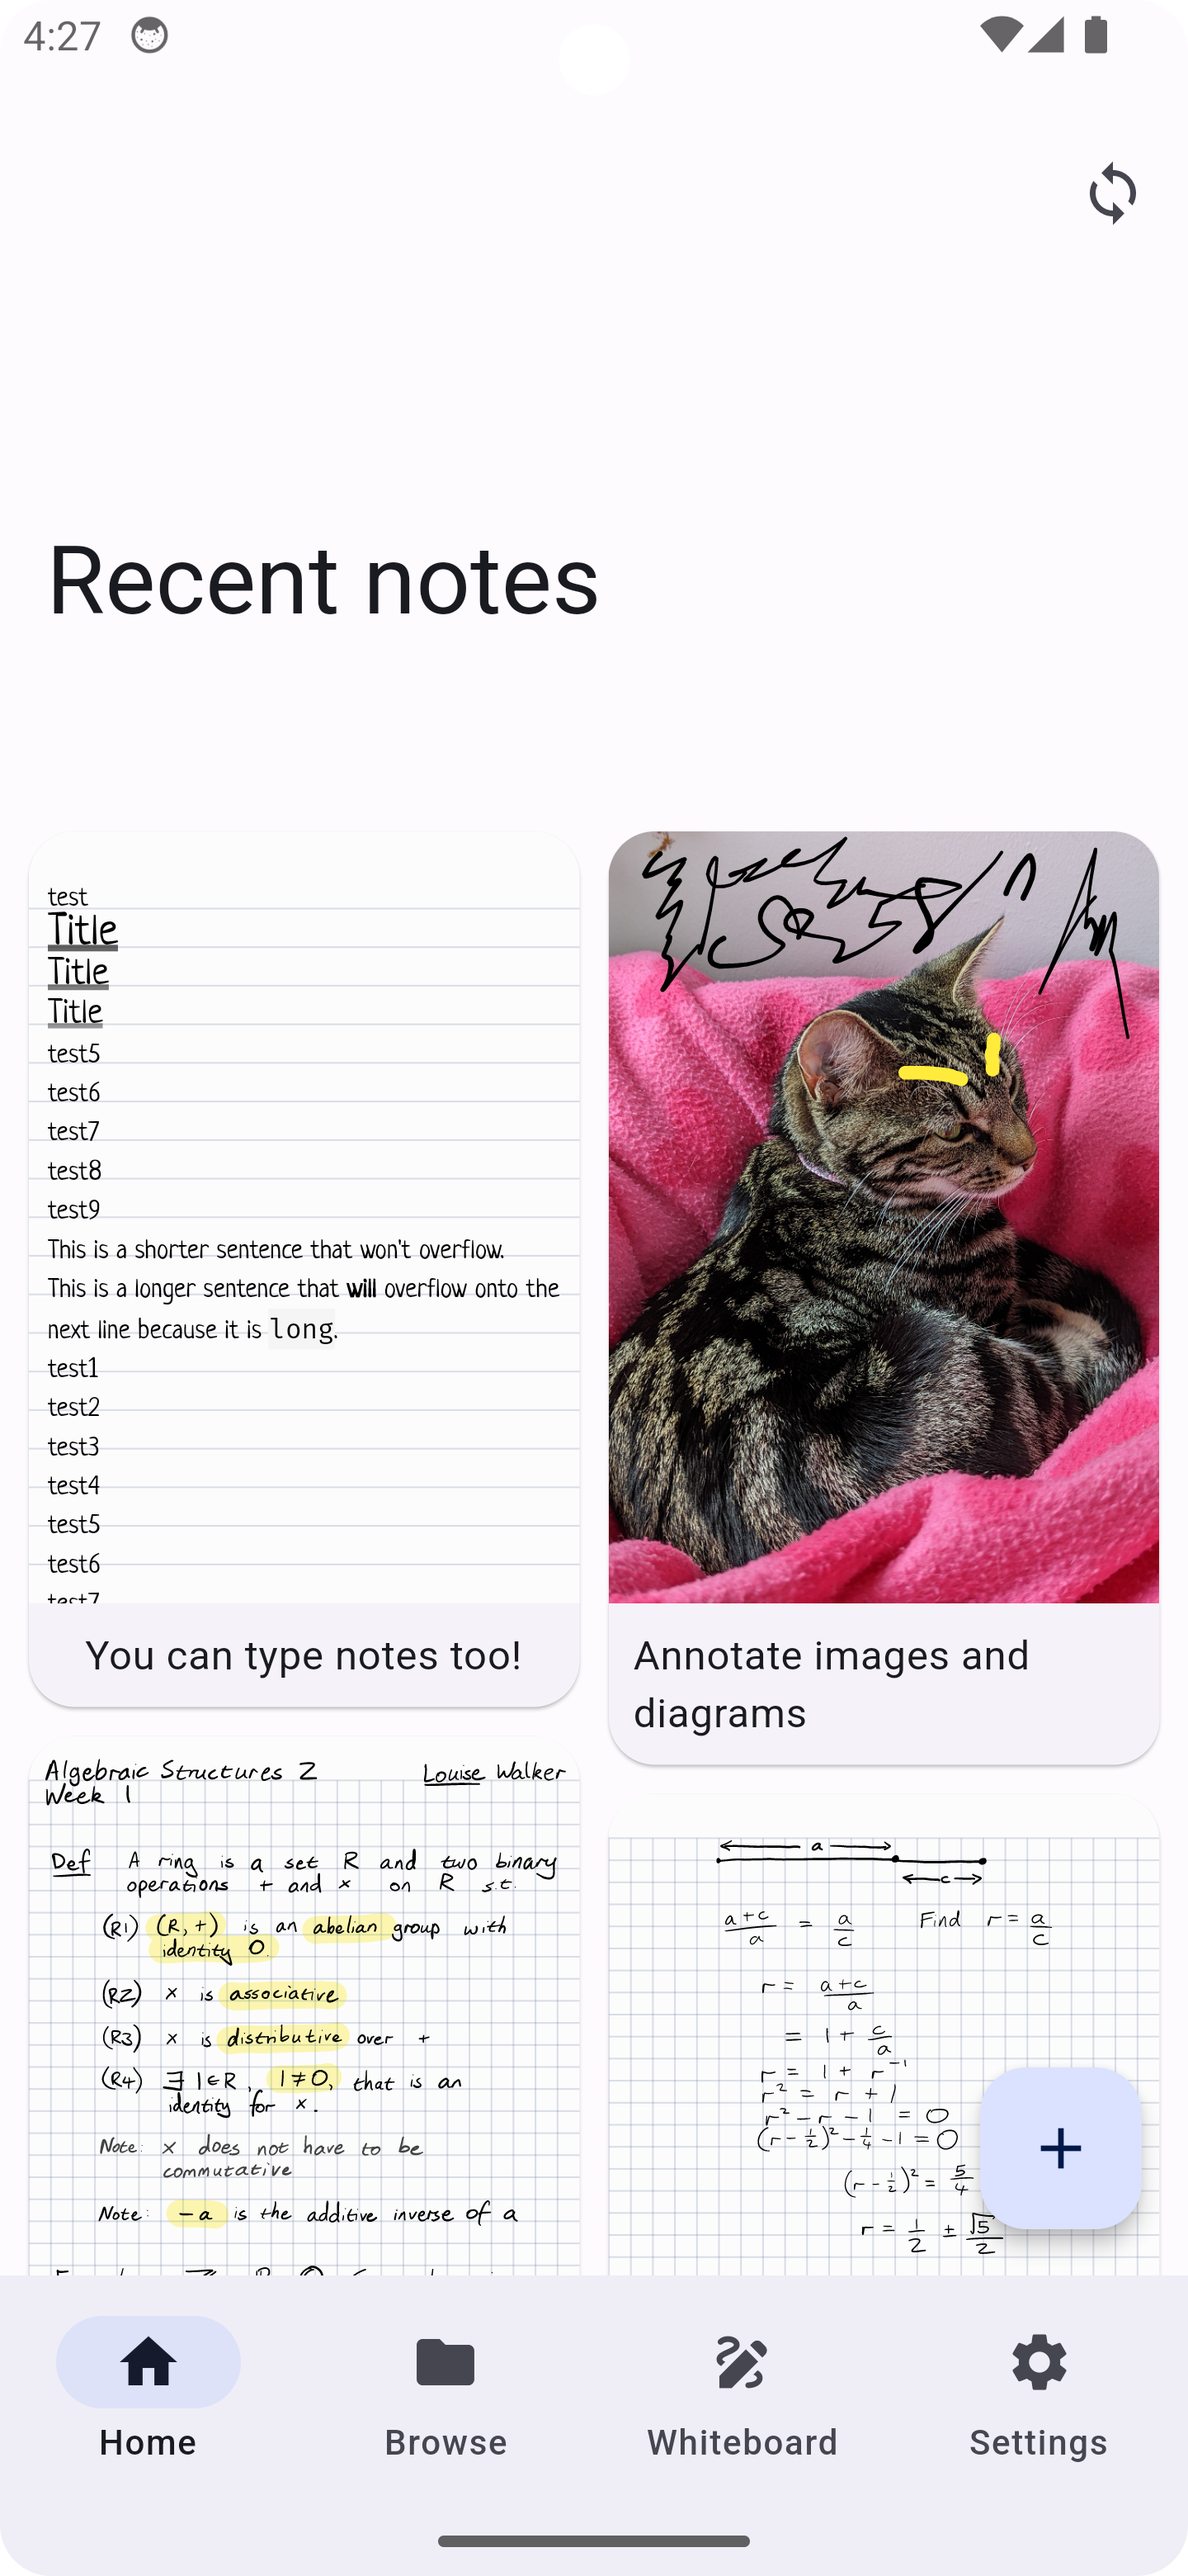
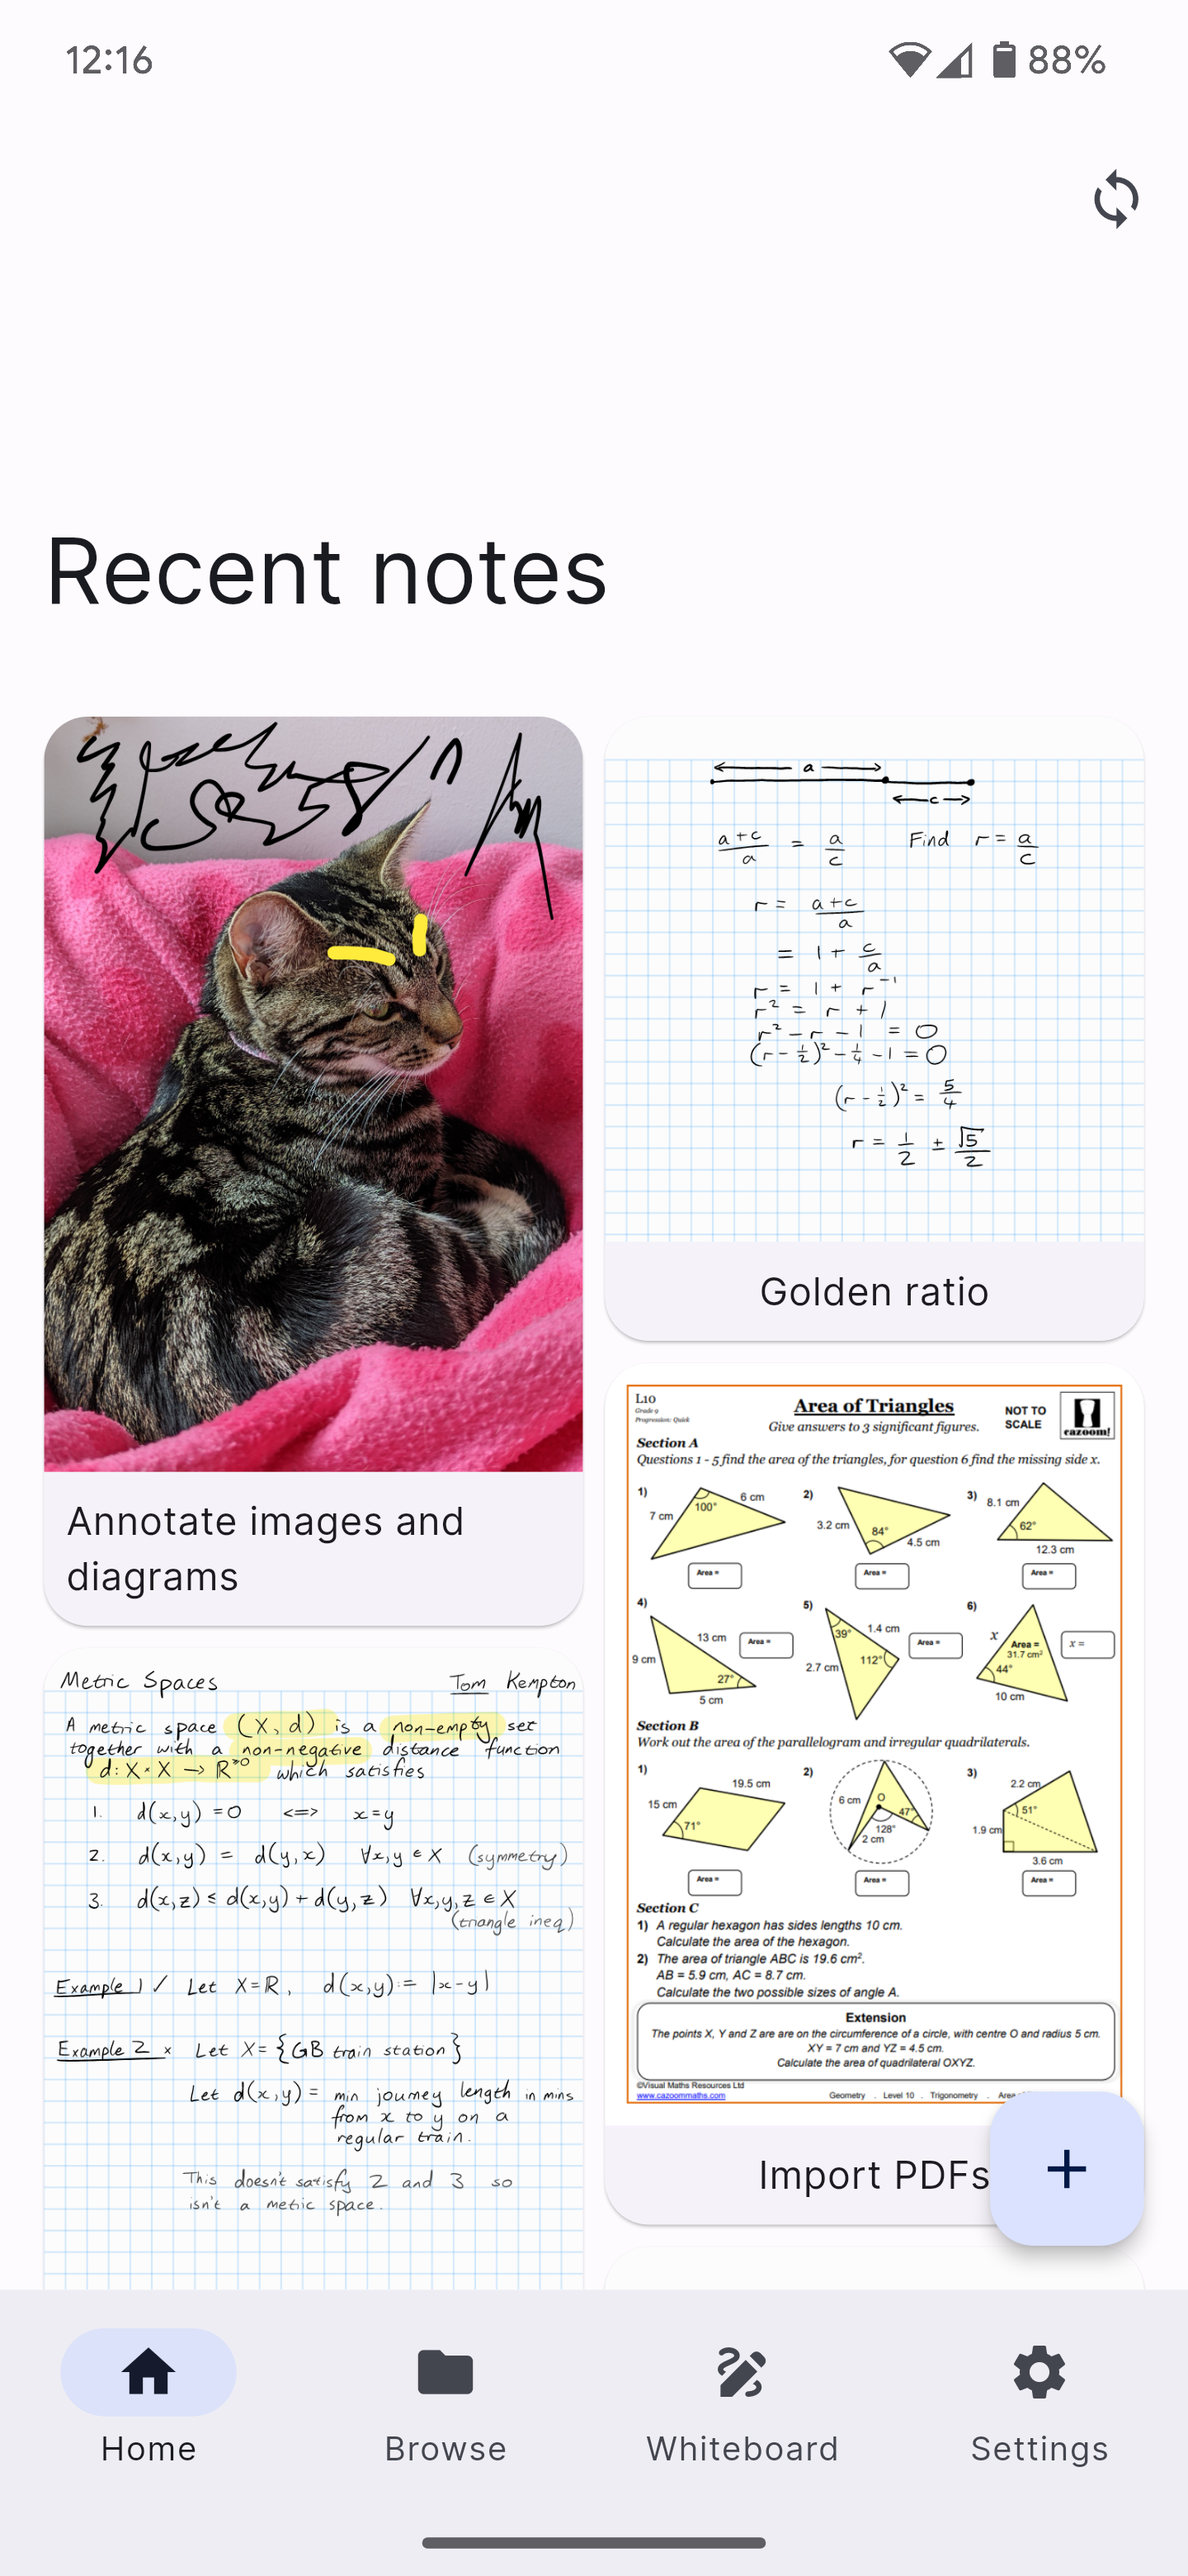
chore: automate screenshots of the home page

diff --git a/test/screenshot_goldens_test.dart b/test/screenshot_goldens_test.dart
@@ -1,0 +1,162 @@
+import 'dart:io';
+
+import 'package:flutter/material.dart';
+import 'package:flutter/services.dart';
+import 'package:flutter_test/flutter_test.dart';
+import 'package:golden_screenshot/golden_screenshot.dart';
+import 'package:google_fonts/google_fonts.dart';
+import 'package:saber/components/canvas/invert_shader.dart';
+import 'package:saber/components/canvas/pencil_shader.dart';
+import 'package:saber/components/canvas/shader_image.dart';
+import 'package:saber/components/home/banner_ad_widget.dart';
+import 'package:saber/components/home/syncing_button.dart';
+import 'package:saber/components/theming/yaru_builder.dart';
+import 'package:saber/data/file_manager/file_manager.dart';
+import 'package:saber/data/flavor_config.dart';
+import 'package:saber/data/prefs.dart';
+import 'package:saber/pages/home/home.dart';
+import 'package:yaru/yaru.dart';
+
+import 'utils/test_mock_channel_handlers.dart';
+
+void main() {
+  group('Screenshots:', () {
+    TestWidgetsFlutterBinding.ensureInitialized();
+    BackgroundIsolateBinaryMessenger.ensureInitialized(
+      ServicesBinding.rootIsolateToken!,
+    );
+
+    setupMockPathProvider();
+    setupMockPrinting();
+
+    FlavorConfig.setup();
+    Prefs.testingMode = true;
+    Prefs.init();
+    AdState.init();
+    SyncingButton.forceButtonActive = true;
+
+    setUpAll(() => Future.wait([
+          FileManager.init(),
+          InvertShader.init(),
+          PencilShader.init(),
+          GoogleFonts.pendingFonts([
+            GoogleFonts.neucha(),
+            GoogleFonts.dekko(),
+            GoogleFonts.firaMono(),
+          ]),
+        ]));
+
+    Prefs.recentFiles.value = [];
+    setUpAll(() => Future.wait(Directory('test/demo_notes/')
+            .listSync()
+            .whereType<File>()
+            .map((file) async {
+          /// The file name starting with a slash
+          final fileName = file.path.substring(file.path.lastIndexOf('/'));
+          if (fileName.endsWith('.sbn2') || fileName.endsWith('.sbn')) {
+            Prefs.recentFiles.value.add(fileName);
+          }
+          final bytes = await file.readAsBytes();
+          return FileManager.getFile(fileName).writeAsBytes(bytes);
+        })));
+
+    final colorScheme = ColorScheme.fromSeed(
+      seedColor: const Color(0xffdae2ff),
+      surface: const Color(0xfffefbff),
+    );
+    final materialTheme = ThemeData(
+      colorScheme: colorScheme,
+      textTheme: GoogleFonts.interTextTheme(),
+      scaffoldBackgroundColor: colorScheme.surface,
+    );
+    final yaruVariant = YaruBuilder.findClosestYaruVariant(colorScheme.primary);
+    final yaruTheme = YaruThemeData(variant: yaruVariant, useMaterial3: true);
+
+    final homeFrameColors = ScreenshotFrameColors(
+      bottomBar: colorScheme.surfaceContainer,
+    );
+
+    _screenshot(
+      frameColors: homeFrameColors,
+      materialTheme: materialTheme,
+      yaruTheme: yaruTheme,
+      goldenFileName: 'home',
+      child: const HomePage(subpage: HomePage.recentSubpage, path: ''),
+    );
+  });
+}
+
+void _screenshot({
+  ScreenshotFrameColors? frameColors,
+  required ThemeData materialTheme,
+  required YaruThemeData yaruTheme,
+  required String goldenFileName,
+  required Widget child,
+}) {
+  group(goldenFileName, () {
+    for (final device in ScreenshotDevice.values) {
+      testWidgets('for ${device.name}', (tester) async {
+        debugDisableShadows = false;
+
+        final widget = ScreenshotApp(
+          theme: switch (device.platform) {
+            TargetPlatform.linux => yaruTheme.theme,
+            _ => materialTheme,
+          },
+          device: device,
+          frameColors: frameColors,
+          child: child,
+        );
+        await tester.pumpWidget(widget);
+        await tester.pumpFrames(widget, const Duration(seconds: 1));
+
+        await tester.precacheImagesInWidgetTree();
+        await tester.precacheShaderImagesInWidgetTree();
+        await tester.precacheTopbarImages();
+        await tester.loadFonts();
+
+        await tester.pumpFrames(widget, const Duration(seconds: 1));
+        await expectLater(
+          find.byWidget(child),
+          matchesGoldenFile('${device.goldenFolder}$goldenFileName.png'),
+        );
+
+        debugDisableShadows = true;
+      });
+    }
+  });
+}
+
+extension on WidgetTester {
+  Future<void> precacheShaderImagesInWidgetTree({
+    bool skipOffstage = true,
+  }) async {
+    final imageWidgets = widgetList<ShaderImage>(find.byType(
+      ShaderImage,
+      skipOffstage: skipOffstage,
+    ));
+    final imageProviders = <ImageProvider>[];
+    for (final widget in imageWidgets) {
+      var imageProvider = widget.image;
+
+      if (imageProvider is FileImage) {
+        final memoryImage = await runAsync(
+            () => convertFileImageToMemoryImage(imageProvider as FileImage));
+        ShaderImage.imageSubstitutions[imageProvider] = memoryImage!;
+        imageProvider = memoryImage;
+      }
+
+      imageProviders.add(imageProvider);
+    }
+    return precacheImages(imageProviders);
+  }
+
+  /// Trying to precache FileImages causes the test to hang
+  /// for some reason. To work around this, we convert the
+  /// FileImage to a MemoryImage and precache that instead.
+  static Future<MemoryImage> convertFileImageToMemoryImage(
+      FileImage fileImage) async {
+    final bytes = await fileImage.file.readAsBytes();
+    return MemoryImage(bytes);
+  }
+}

diff --git a/lib/components/canvas/shader_image.dart b/lib/components/canvas/shader_image.dart
@@ -1,5 +1,6 @@
 import 'dart:ui' as ui;
 
+import 'package:flutter/foundation.dart';
 import 'package:flutter/material.dart';
 
 typedef ShaderBuilder = ui.FragmentShader? Function(ui.Image, Size);
@@ -31,6 +32,10 @@ class ShaderImage extends StatefulWidget {
 
   @override
   State<ShaderImage> createState() => _ShaderImageState();
+
+  /// Used in golden tests to replace FileImages with MemoryImages.
+  @visibleForTesting
+  static Map<ImageProvider, MemoryImage> imageSubstitutions = {};
 }
 
 class _ShaderImageState extends State<ShaderImage> {
@@ -49,14 +54,20 @@ class _ShaderImageState extends State<ShaderImage> {
   @override
   void didUpdateWidget(ShaderImage oldWidget) {
     super.didUpdateWidget(oldWidget);
-    if (widget.image != oldWidget.image) {
+    if (substituteImage(widget.image) != substituteImage(oldWidget.image)) {
       _getImage();
     }
   }
 
+  static ImageProvider substituteImage(ImageProvider image) {
+    if (!kDebugMode) return image;
+    return ShaderImage.imageSubstitutions[image] ?? image;
+  }
+
   void _getImage() {
     final ImageStream? oldImageStream = _imageStream;
-    _imageStream = widget.image.resolve(createLocalImageConfiguration(context));
+    _imageStream = substituteImage(widget.image)
+        .resolve(createLocalImageConfiguration(context));
     if (_imageStream!.key != oldImageStream?.key) {
       // If the keys are the same, then we got the same image back, and so we don't
       // need to update the listeners. If the key changed, though, we must make sure

diff --git a/lib/components/theming/yaru_builder.dart b/lib/components/theming/yaru_builder.dart
@@ -19,22 +19,6 @@ class YaruBuilder extends StatefulWidget {
 
   @override
   State<YaruBuilder> createState() => _YaruBuilderState();
-}
-
-class _YaruBuilderState extends State<YaruBuilder> {
-  Color lastPrimary = Colors.orange;
-  YaruVariant closestYaruVariant = YaruVariant.orange;
-
-  @override
-  void didUpdateWidget(YaruBuilder oldWidget) {
-    super.didUpdateWidget(oldWidget);
-
-    final newPrimary = widget.enabled ? widget.primary : lastPrimary;
-    if (newPrimary != lastPrimary) {
-      closestYaruVariant = findClosestYaruVariant(newPrimary);
-      lastPrimary = newPrimary;
-    }
-  }
 
   /// Finds the closest yaru theme variant to the given primary color
   /// by comparing their hues.
@@ -48,6 +32,22 @@ class _YaruBuilderState extends State<YaruBuilder> {
         })
         .reduce((a, b) => a.value < b.value ? a : b)
         .key;
+  }
+}
+
+class _YaruBuilderState extends State<YaruBuilder> {
+  Color lastPrimary = Colors.orange;
+  YaruVariant closestYaruVariant = YaruVariant.orange;
+
+  @override
+  void didUpdateWidget(YaruBuilder oldWidget) {
+    super.didUpdateWidget(oldWidget);
+
+    final newPrimary = widget.enabled ? widget.primary : lastPrimary;
+    if (newPrimary != lastPrimary) {
+      closestYaruVariant = YaruBuilder.findClosestYaruVariant(newPrimary);
+      lastPrimary = newPrimary;
+    }
   }
 
   @override

diff --git a/lib/components/home/syncing_button.dart b/lib/components/home/syncing_button.dart
@@ -11,6 +11,10 @@ class SyncingButton extends StatefulWidget {
 
   @override
   State<SyncingButton> createState() => _SyncingButtonState();
+
+  /// Whether to force the button to look tappable (for screenshots).
+  @visibleForTesting
+  static bool forceButtonActive = false;
 }
 
 class _SyncingButtonState extends State<SyncingButton> {
@@ -76,7 +80,11 @@ class _SyncingButtonState extends State<SyncingButton> {
     double? percentage = getPercentage();
 
     return IconButton(
-      onPressed: Prefs.loggedIn ? onPressed : null,
+      onPressed: Prefs.loggedIn
+          ? onPressed
+          : SyncingButton.forceButtonActive
+              ? () {}
+              : null,
       icon: Stack(
         alignment: Alignment.center,
         children: [

diff --git a/lib/components/navbar/vertical_navbar.dart b/lib/components/navbar/vertical_navbar.dart
@@ -25,10 +25,7 @@ class _VerticalNavbarState extends State<VerticalNavbar> {
   @override
   Widget build(BuildContext context) {
     final colorScheme = Theme.of(context).colorScheme;
-    final backgroundColor = Color.alphaBlend(
-      colorScheme.primary.withOpacity(0.05),
-      colorScheme.surface,
-    );
+    final backgroundColor = colorScheme.surfaceContainer;
 
     return DecoratedBox(
       decoration: BoxDecoration(
